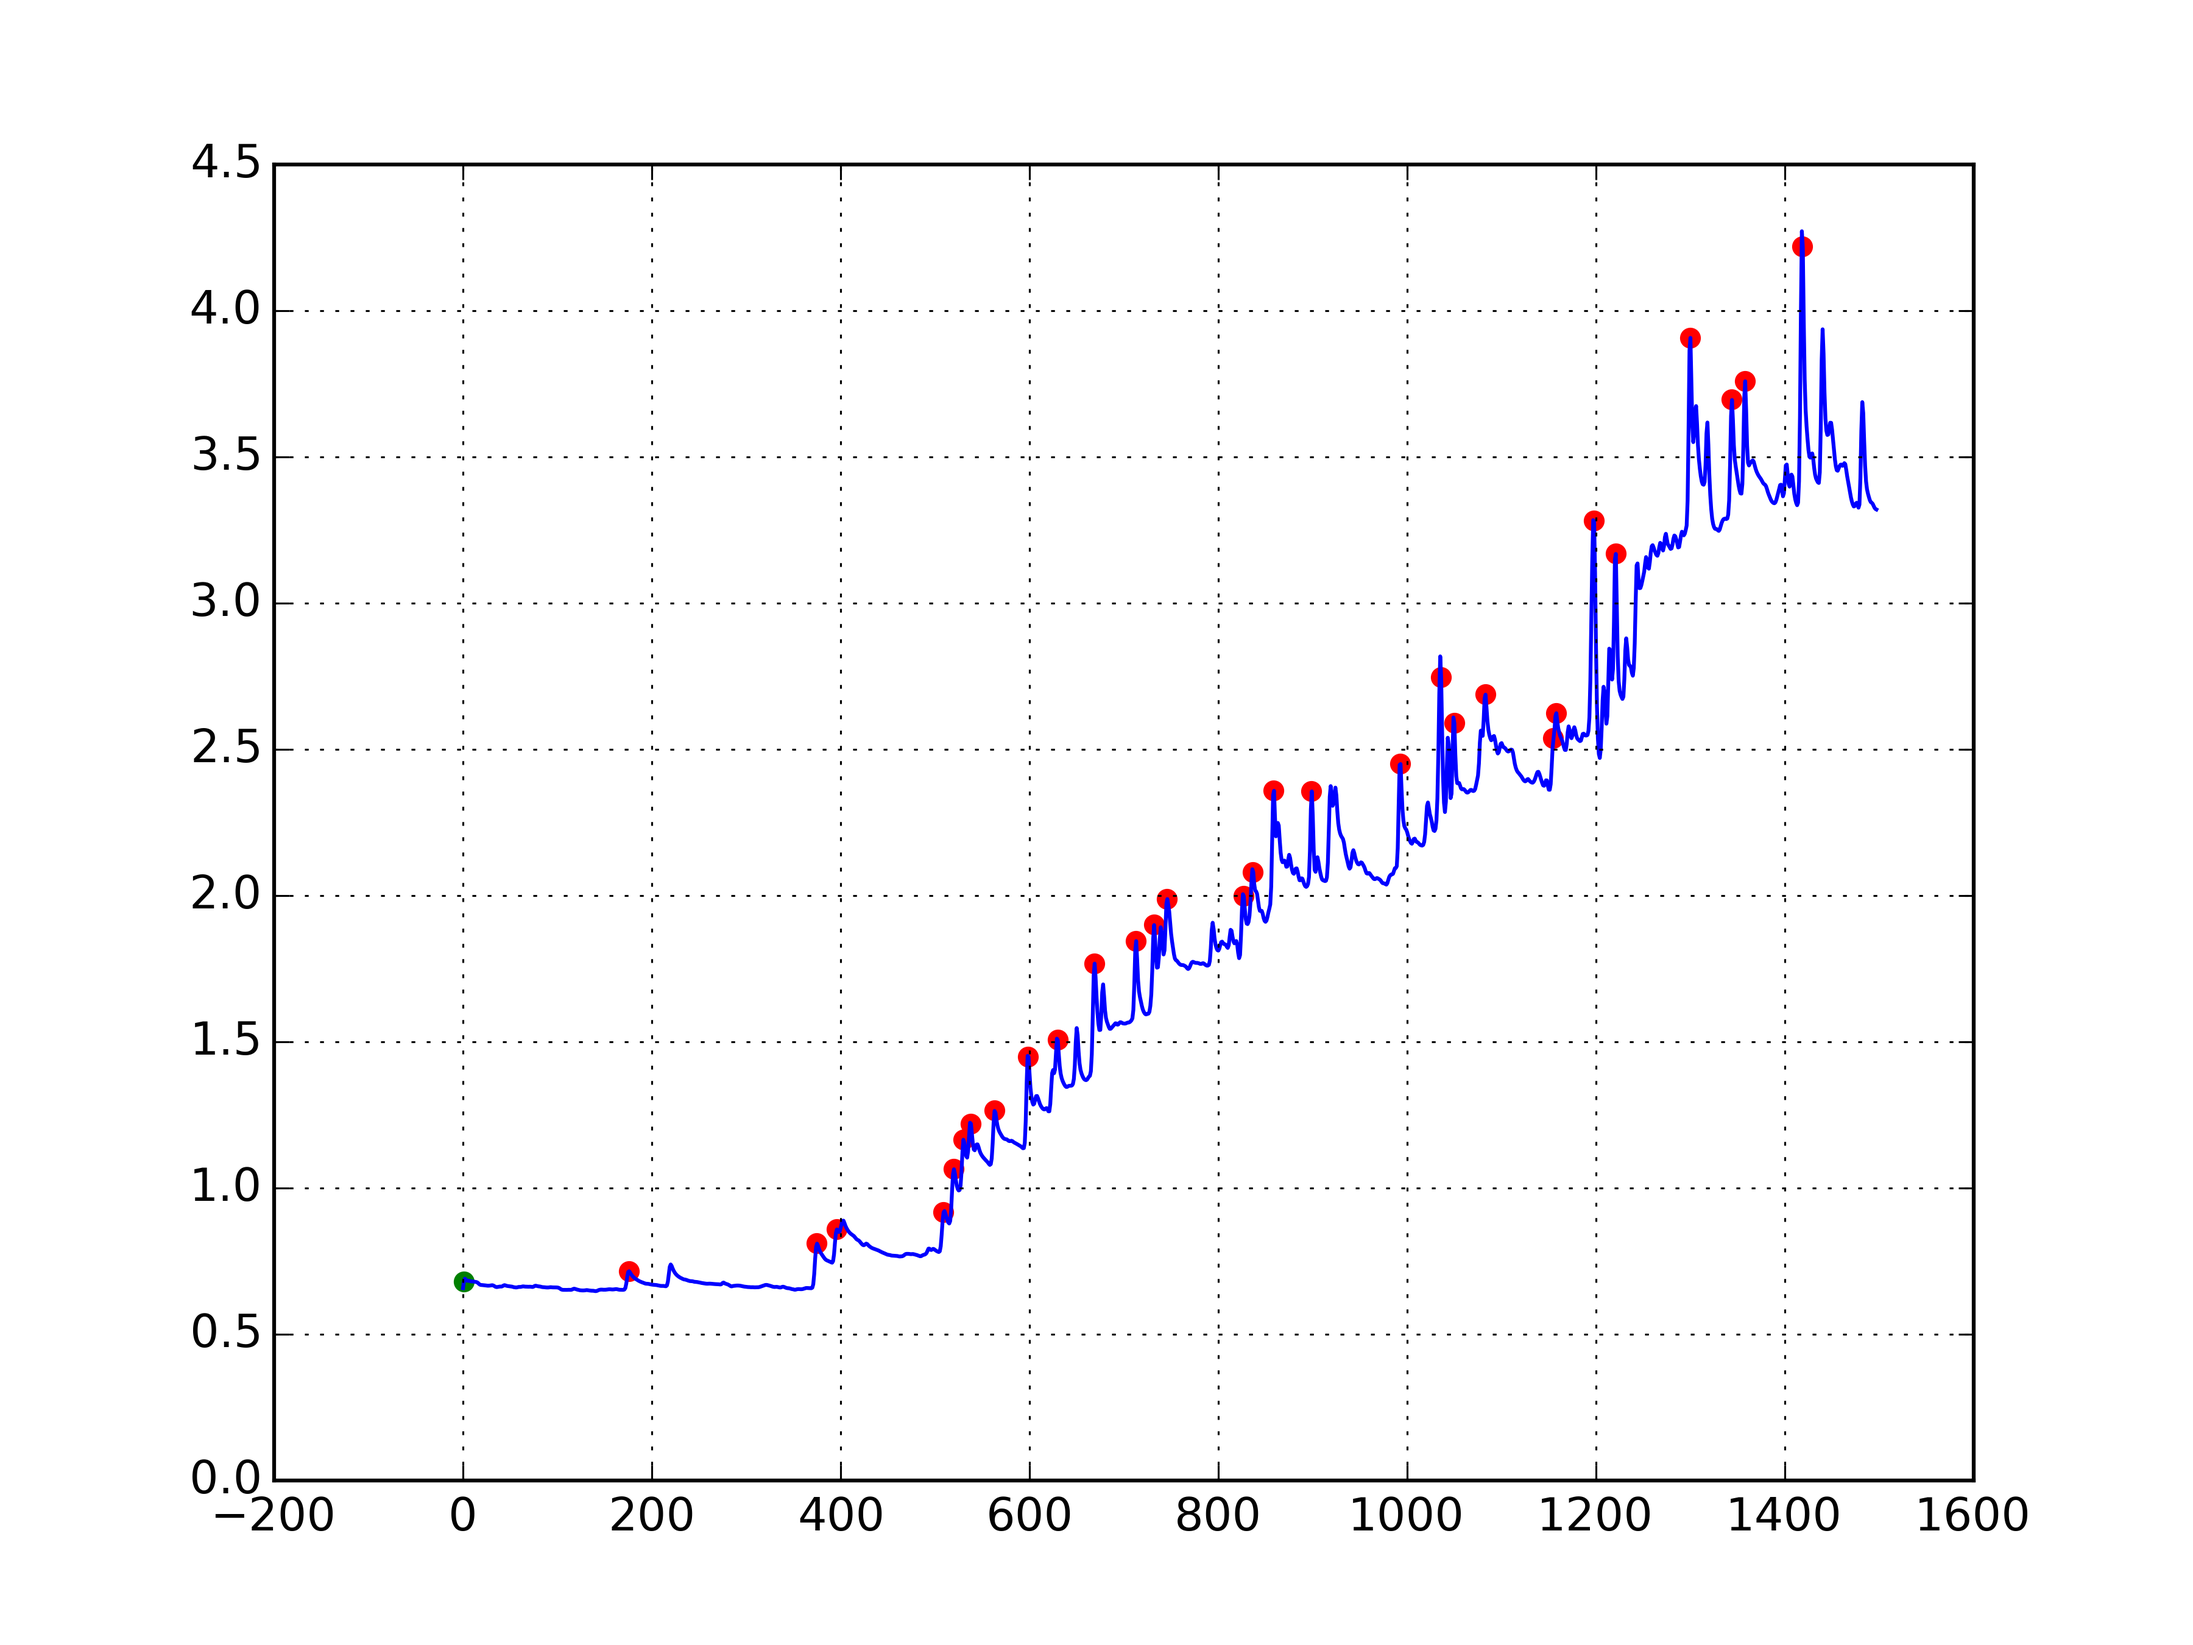
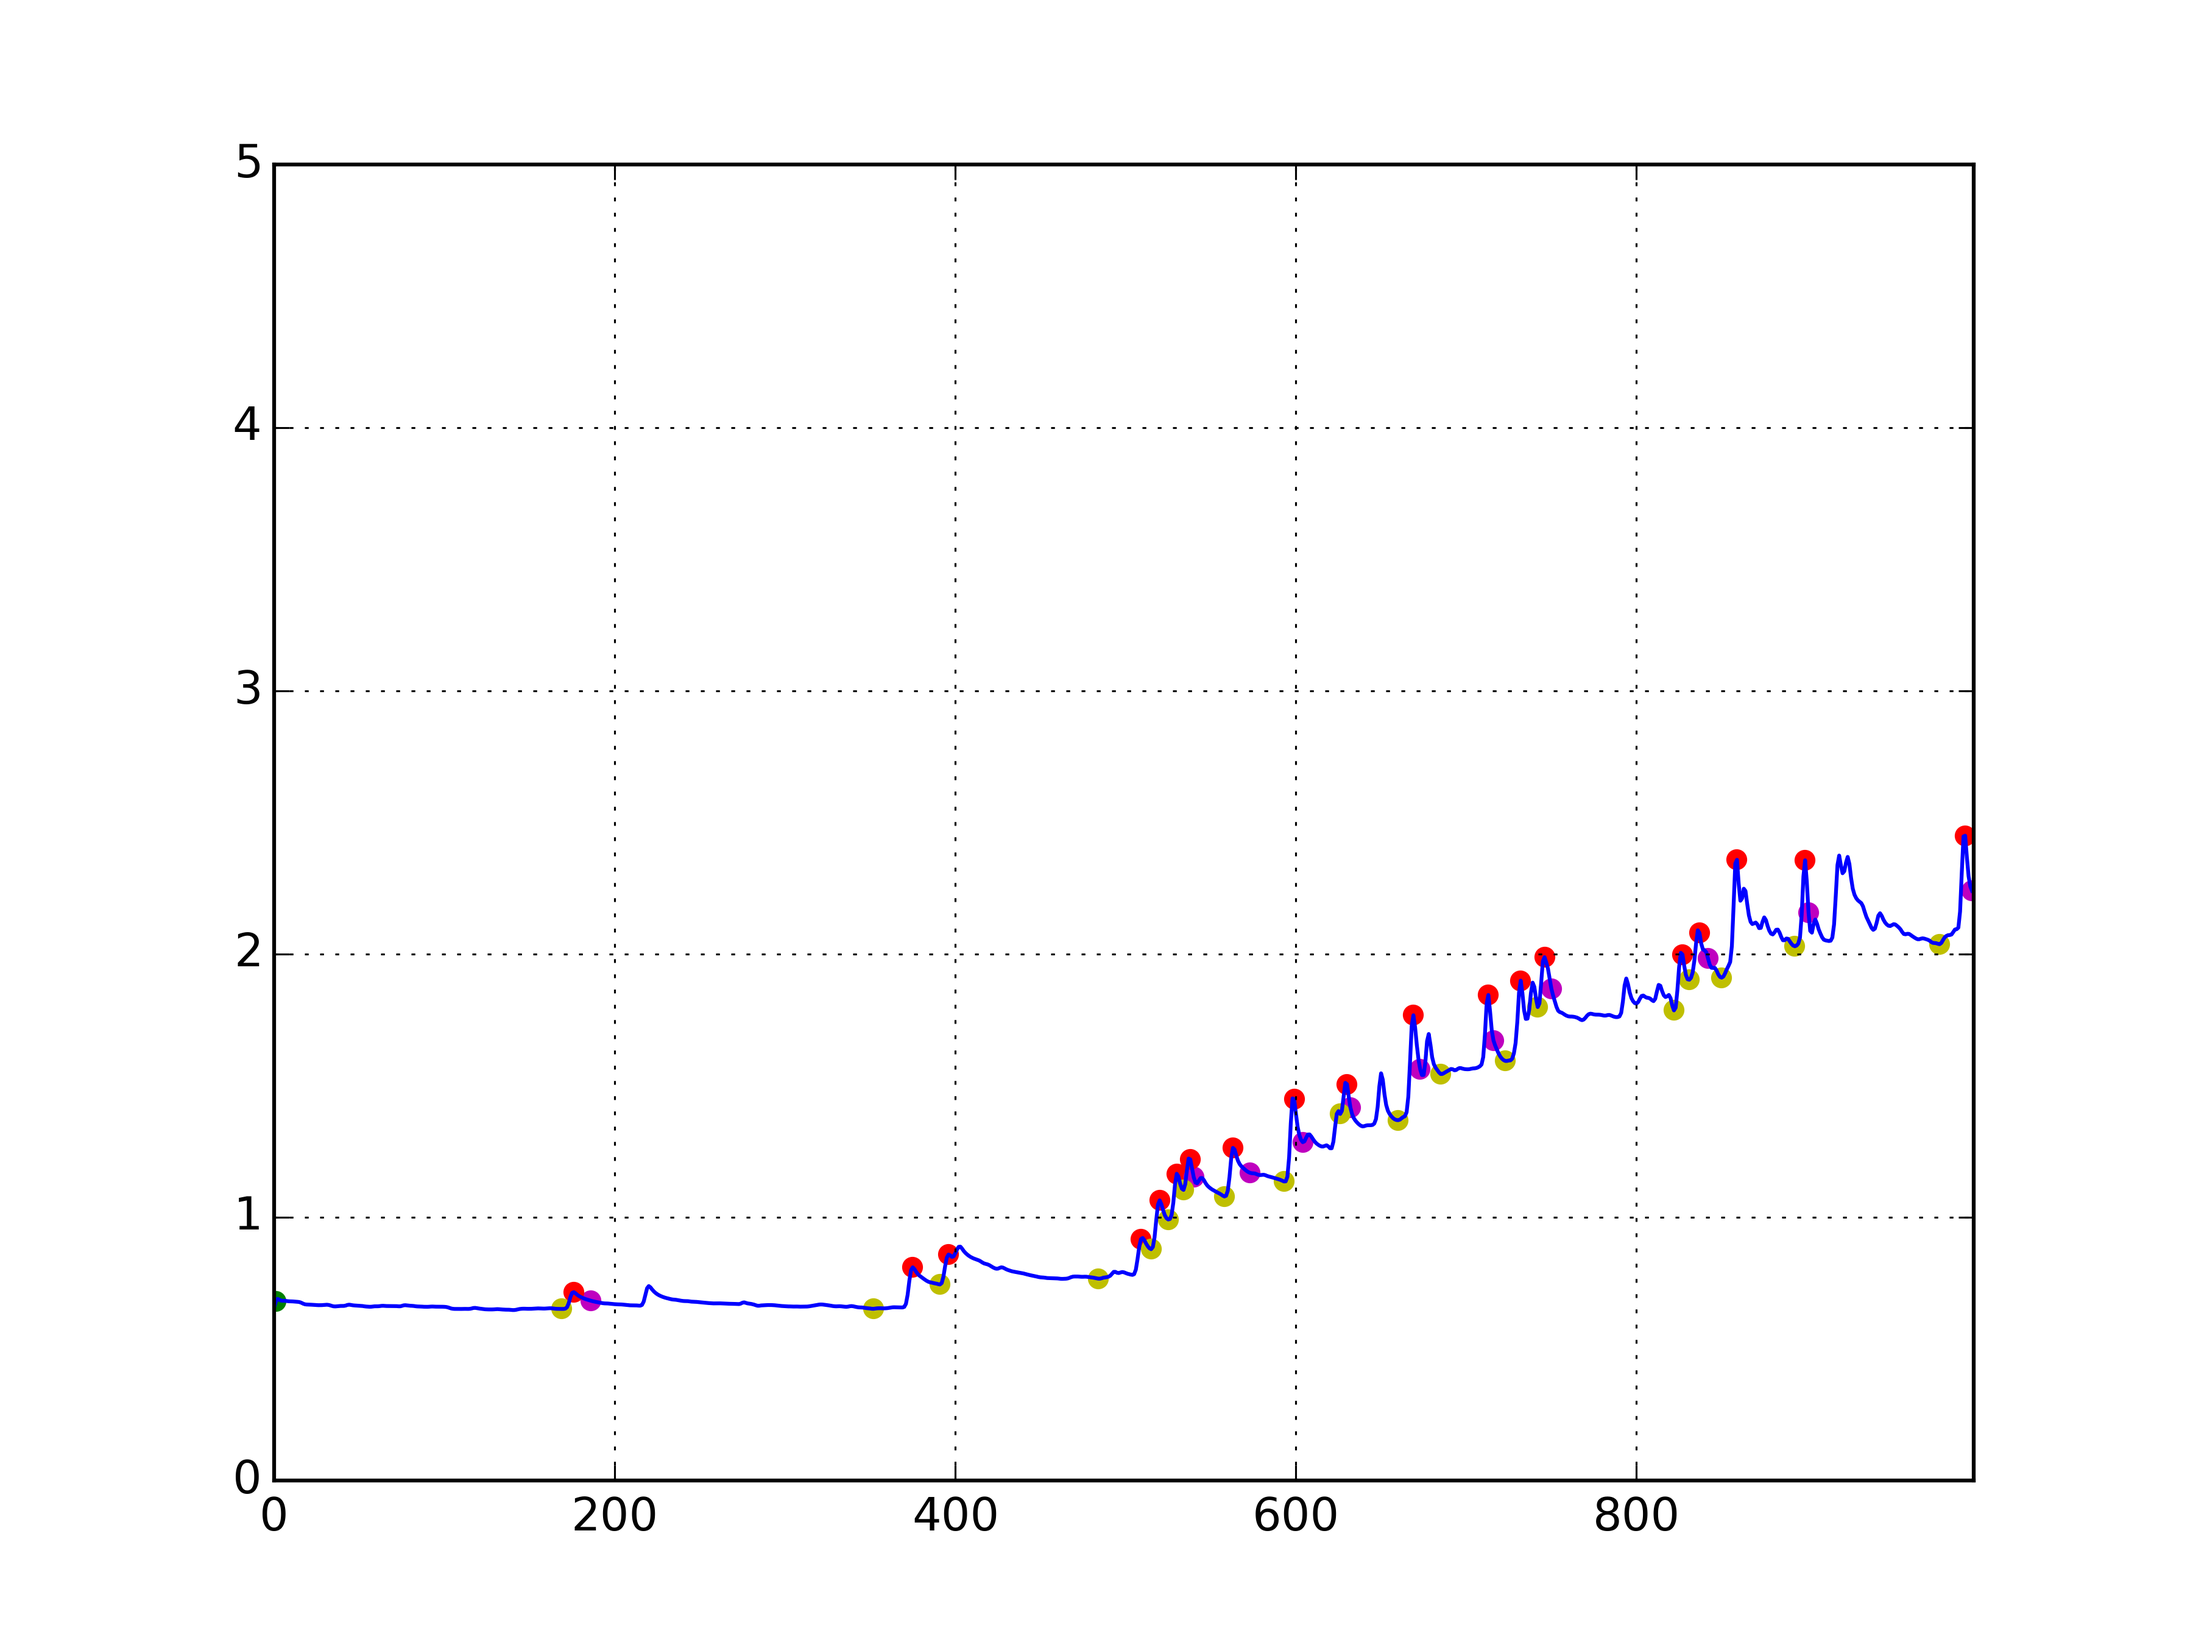
HRTDetector OK

diff --git a/HalfRecoveryTimeDetector.py b/HalfRecoveryTimeDetector.py
@@ -6,10 +6,18 @@ class HalfRecoveryTimeDetector:
 	def __init__(self,_data,_segment=None):
 		self._data = _data
 		self._segment = _segment
+		self.limy = [0,5]
+		self.limx = [0,len(_data)]
 		self.detect()
+		
+	def removeDuplicates(self,seq):
+		seen = set()
+		seen_add = seen.add
+		return [ x for x in seq if not (x in seen or seen_add(x))]
 	def detect(self):
 		self._gaussianData = gaussian_filter(self._data,1)
 		self._peakind = signal.find_peaks_cwt(self._gaussianData, np.arange(1,2))
+		self._peakind = self.removeDuplicates(self._peakind)
 	def plot(self,figname):
 		fig, ax = plt.subplots()
                 index = np.arange(len (self._gaussianData))
@@ -18,14 +26,59 @@ class HalfRecoveryTimeDetector:
 		for _i, _p in enumerate(self._peakind):
 			if(_i < len(self._peakind) and _i > 0):
 				
-				print "peak",self._gaussianData[_p], self._gaussianData [ self._peakind [_i-1  ]]
+				#print "peak",self._gaussianData[_p], self._gaussianData [ self._peakind [_i-1  ]]
 				_diff = self._gaussianData[_p] - self._gaussianData[self._peakind [_i-1  ]]
-				print "diff ->",abs(_diff)
+				#Calculate only data within the threshold
 				if(_diff > 0.04): #
+					print "peak #",_p
+					#calculateRaisingTime
+					_limLeft = self._peakind[_i-1]
+					_limRight = self._peakind[_i]
+					_segmentToSearchRaisingTime = self._gaussianData[_limLeft:_limRight].tolist()
+					_raisingPoint = _segmentToSearchRaisingTime.index(min(_segmentToSearchRaisingTime))
+					_c = self._peakind[_i-1] + _raisingPoint
+
+					#Calculate amplitude and rising time
+					_amplitude = self._gaussianData[_p] - self._gaussianData[_c]
+					_risingTime = _p - _c
+
+					_currentPeak = self._peakind[_i]
+					#calculateHalfRecoveryTime
+					if ( _i < len(self._peakind)-1):
+						_nextPeak = self._peakind[_i+1]
+						print "HR_peak",_currentPeak,_nextPeak
+						_segmentToSearchHalfRecoveryTime = self._gaussianData[_currentPeak:_nextPeak]
+					else:
+						_segmentToSearchHalfRecoveryTime = self._gaussianData[_currentPeak:]
+						
+					_halfAmplitude = _amplitude / 2.0
+					_halfRecoveryTime = None
+					_hrtPointValue = None
+					for _x,_val in enumerate(_segmentToSearchHalfRecoveryTime):
+						print "halfampli",_halfAmplitude,_amplitude/2.0
+						_valueAtPeak = self._gaussianData[_currentPeak]
+						_ampliDiff = _valueAtPeak - _halfAmplitude
+						print "amplidiff", _valueAtPeak - _ampliDiff
+						if( _val - _ampliDiff < 0.00000000000000001):
+							print "hrt",_currentPeak,_ampliDiff, _x + _currentPeak
+							_hrtPoint = _currentPeak +_x
+							_hrtPointValue = self._gaussianData[_hrtPoint]
+							ax.scatter(  _hrtPoint  , self._gaussianData[_hrtPoint],color='m' )
+							_halfRecoveryTime = _hrtPoint - _currentPeak
+							break
 					ax.scatter(  _p , self._gaussianData[_p],color='r' )
+					ax.scatter(  _c,self._gaussianData[_c],color='y')
+					print "amplitude",_amplitude
+					print "rise time",_risingTime
+					print "peakIndex",_p
+					print "HRTPeak: #%f, Amplitude: %f, Raise Time: %f, HRT: %s, ValAtHRT:%s" \
+						%(_p,_amplitude,_risingTime,str(_halfRecoveryTime),str(_hrtPointValue))
 			else:
 				ax.scatter(  _p , self._gaussianData[_p],color='g' )
 		plt.grid(True)
 		plt.show()
+		plt.ylim(self.limy)
+                plt.xlim(self.limx)
+
 		plt.savefig(figname,dpi=450)
 		

diff --git a/pilot.py b/pilot.py
@@ -308,15 +308,15 @@ def removeTimeStamps(_list):
 if (__name__ == "__main__"):
         s = session("piloto_1_t1/1430265036998/")
 	#plotGSR("piloto_1_t1","T1",s,_limy=[0.0,5.0],_plotEach=60)
-	#plotGSR("piloto_1_t1","T1_Zoom",s,_limy=[0.0,1.0],_limx=[350,450],_plotEach=60)
-	_gsrData = s.groupBySec(s._dataGSR,True,False)[0:1500]
+	#aplotGSR("piloto_1_t1","T1_Zoom",s,_limy=[0.0,1.0],_limx=[350,450],_plotEach=60)
+	_gsrData = s.groupBySec(s._dataGSR,True,False)[0:1000]
 	htr = HalfRecoveryTimeDetector(_gsrData[2:])
 	htr.plot("peaks.png")
 	
 
 
 	s = session("p2/p2_t1/1430349866785/")
-	_gsrData = s.groupBySec(s._dataGSR,True,False)[180:240]
+	_gsrData = s.groupBySec(s._dataGSR,True,False)[0:1000]
 	print _gsrData
 	htr = HalfRecoveryTimeDetector(_gsrData[2:])
 	htr.plot("peaks_T1_p2")
